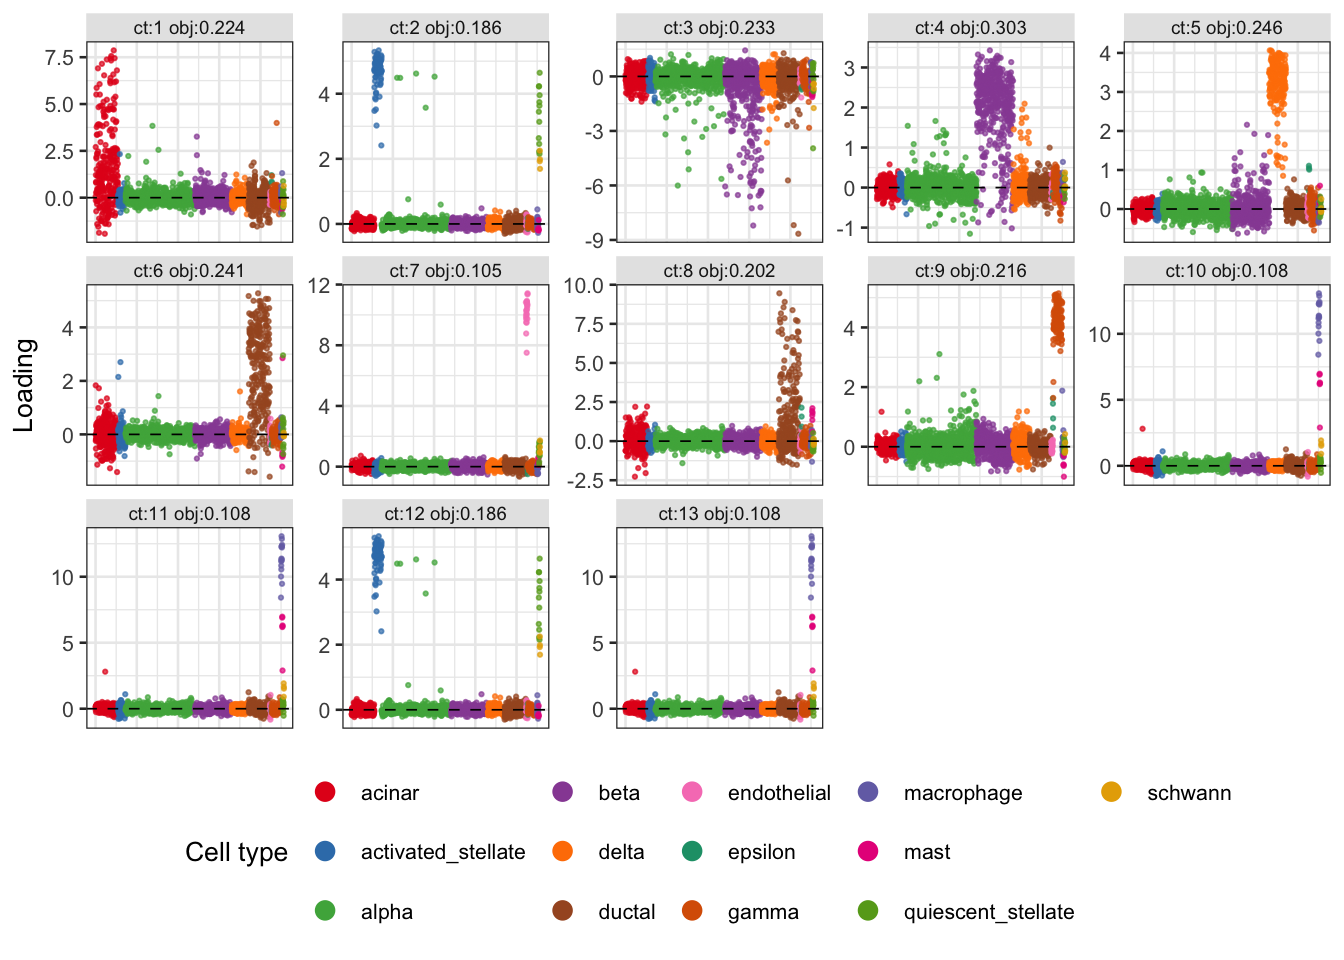
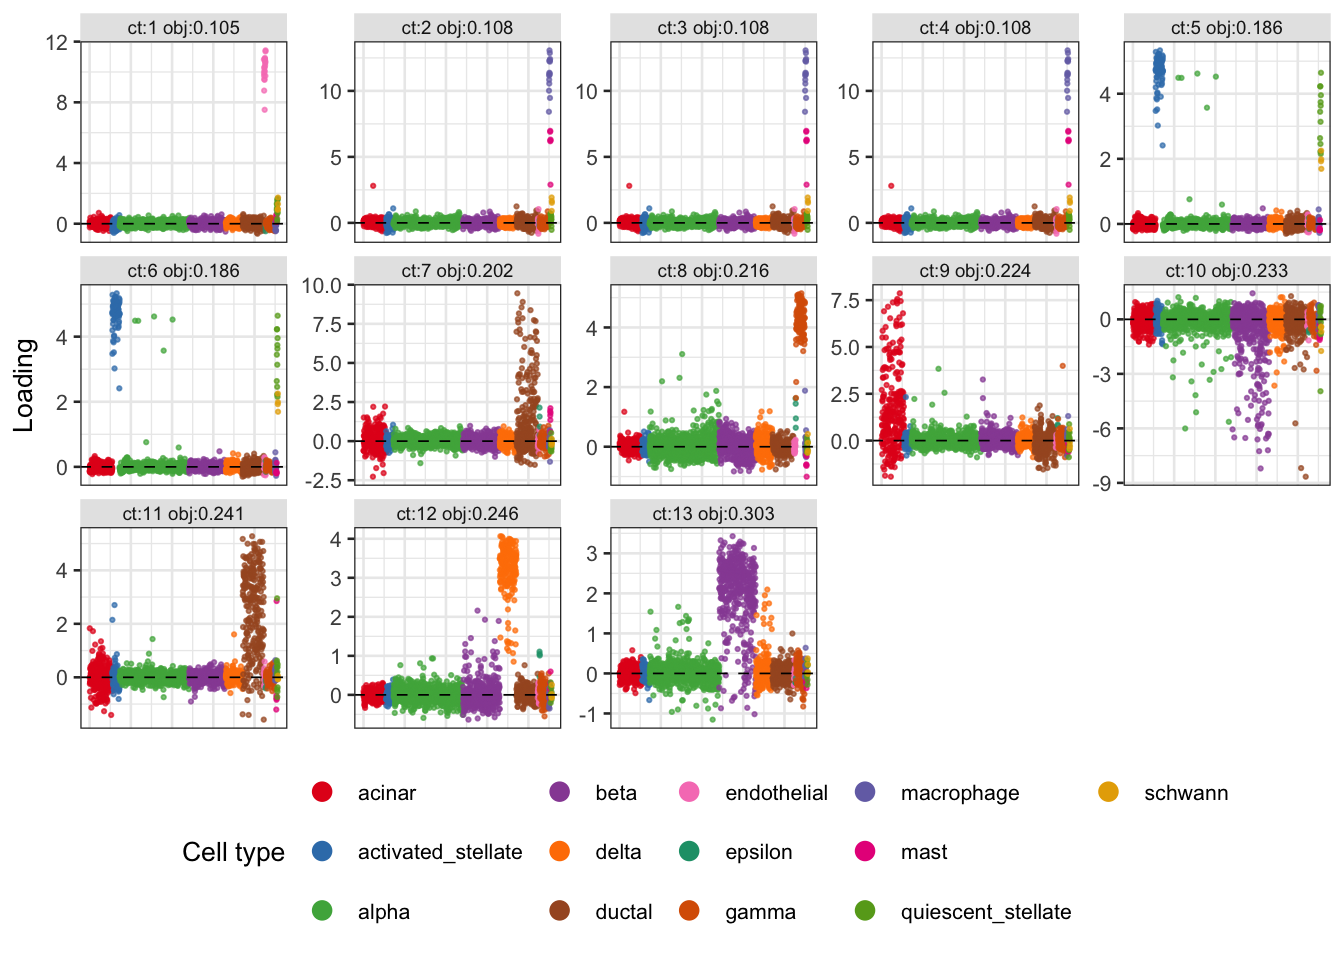
Build site.

diff --git a/docs/pancreas_celseq2_ica.html b/docs/pancreas_celseq2_ica.html
@@ -434,15 +434,15 @@ project makes it easier to run your code on other machines.</p>
 <div class="panel panel-default">
 <div class="panel-heading">
 <p class="panel-title">
-<a data-toggle="collapse" data-parent="#workflowr-checks" href="#strongRepositoryversionstrongahrefhttpsgithubcomstephenslabsinglecelljamboreetree69574bab76f6842d9ccb6cc8d6e3db1330432e52targetblank69574baa">
+<a data-toggle="collapse" data-parent="#workflowr-checks" href="#strongRepositoryversionstrongahrefhttpsgithubcomstephenslabsinglecelljamboreetree1a948b136c65fd3fd26229473fa1a9e304aa0ba1targetblank1a948b1a">
 <span class="glyphicon glyphicon-ok text-success"
 aria-hidden="true"></span> <strong>Repository version:</strong>
-<a href="https://github.com/stephenslab/single-cell-jamboree/tree/69574bab76f6842d9ccb6cc8d6e3db1330432e52" target="_blank">69574ba</a>
+<a href="https://github.com/stephenslab/single-cell-jamboree/tree/1a948b136c65fd3fd26229473fa1a9e304aa0ba1" target="_blank">1a948b1</a>
 </a>
 </p>
 </div>
 <div
[2 lines of base64/hex data omitted]
 class="panel-collapse collapse">
 <div class="panel-body">
 <p>
@@ -452,7 +452,7 @@ reproducibility.
 </p>
 <p>
 The results in this page were generated with repository version
-<a href="https://github.com/stephenslab/single-cell-jamboree/tree/69574bab76f6842d9ccb6cc8d6e3db1330432e52" target="_blank">69574ba</a>.
+<a href="https://github.com/stephenslab/single-cell-jamboree/tree/1a948b136c65fd3fd26229473fa1a9e304aa0ba1" target="_blank">1a948b1</a>.
 See the <em>Past versions</em> tab to see a history of the changes made
 to the R Markdown and HTML files.
 </p>
@@ -473,6 +473,7 @@ Ignored files:
 
 Untracked files:
     Untracked:  analysis/Rplot.pdf
+    Untracked:  analysis/figure/
     Untracked:  analysis/fit_pancreas_celseq2_gbcd.Rout
     Untracked:  analysis/fit_pancreas_celseq2_snmf_k100.R
     Untracked:  analysis/fit_pancreas_celseq2_snmf_k40.R
@@ -528,6 +529,40 @@ Message
 </tr>
 </thead>
 <tbody>
+<tr>
+<td>
+Rmd
+</td>
+<td>
+<a href="https://github.com/stephenslab/single-cell-jamboree/blob/1a948b136c65fd3fd26229473fa1a9e304aa0ba1/analysis/pancreas_celseq2_ica.Rmd" target="_blank">1a948b1</a>
+</td>
+<td>
+Matthew Stephens
+</td>
+<td>
+2026-08-21
+</td>
+<td>
+workflowr::wflow_publish("pancreas_celseq2_ica.Rmd")
+</td>
+</tr>
+<tr>
+<td>
+html
+</td>
+<td>
+<a href="https://rawcdn.githack.com/stephenslab/single-cell-jamboree/0442a3c50bd73bbcbbf3f597fd388bf92aa1049b/docs/pancreas_celseq2_ica.html" target="_blank">0442a3c</a>
+</td>
+<td>
+Matthew Stephens
+</td>
+<td>
+2026-08-21
+</td>
+<td>
+Build site.
+</td>
+</tr>
 <tr>
 <td>
 Rmd
@@ -779,20 +814,20 @@ celltype_palette &lt;- c(
   &quot;#E7298A&quot;, &quot;#66A61E&quot;, &quot;#E6AB02&quot;, &quot;#A6761D&quot;, &quot;#666666&quot;
 )
 
-lhat_ggplot &lt;- function(Lhat.pc, idx, title) {
+lhat_ggplot &lt;- function(Lhat.pc, idx, title, si = sample_info) {
   if (sum(idx) == 0) return(invisible(NULL))
   Lhat.prune &lt;- Lhat.pc$pruned_matrix
   Lhat_sub   &lt;- Lhat.prune[, idx, drop = FALSE]
   obj_sub    &lt;- colMeans(log(cosh(Lhat_sub)))
   o2         &lt;- order(obj_sub)
-  cell_order &lt;- order(sample_info$celltype)
+  cell_order &lt;- order(si$celltype)
   n_cells    &lt;- nrow(Lhat_sub)
   n_comp     &lt;- sum(idx)
 
   comp_labels &lt;- make.unique(paste0(&quot;n:&quot;, Lhat.pc$cluster_sizes[idx], &quot; obj:&quot;, round(obj_sub, 3)))
   df &lt;- data.frame(
     rank      = rep(seq_len(n_cells), n_comp),
-    celltype  = rep(sample_info$celltype[cell_order], n_comp),
+    celltype  = rep(si$celltype[cell_order], n_comp),
     loading   = as.vector(Lhat_sub[cell_order, ]),
     component = factor(rep(comp_labels, each = n_cells), levels = comp_labels[o2])
   )
@@ -810,27 +845,30 @@ lhat_ggplot &lt;- function(Lhat.pc, idx, title) {
     guides(color = guide_legend(override.aes = list(size = 3, alpha = 1)))
 }
 
-plot_Lhat_maxima &lt;- function(Lhat.pc, obj_threshold = 0.42) {
+plot_Lhat_maxima &lt;- function(Lhat.pc, obj_threshold = 0.42, si = sample_info) {
   obj &lt;- colMeans(log(cosh(Lhat.pc$pruned_matrix)))
-  lhat_ggplot(Lhat.pc, obj &gt; obj_threshold, paste0(&quot;Maxima (obj &gt; &quot;, obj_threshold, &quot;)&quot;))
+  lhat_ggplot(Lhat.pc, obj &gt; obj_threshold, paste0(&quot;Maxima (obj &gt; &quot;, obj_threshold, &quot;)&quot;), si)
 }
 
-plot_Lhat_minima &lt;- function(Lhat.pc, obj_threshold = 0.42) {
+plot_Lhat_minima &lt;- function(Lhat.pc, obj_threshold = 0.42, si = sample_info) {
   obj &lt;- colMeans(log(cosh(Lhat.pc$pruned_matrix)))
-  lhat_ggplot(Lhat.pc, obj &lt;= obj_threshold, paste0(&quot;Minima (obj &lt;= &quot;, obj_threshold, &quot;)&quot;))
+  lhat_ggplot(Lhat.pc, obj &lt;= obj_threshold, paste0(&quot;Minima (obj &lt;= &quot;, obj_threshold, &quot;)&quot;), si)
 }
 
 # General version for unlabeled/unordered loading matrices
-plot_loadings_matrix &lt;- function(Lhat, label_prefix = &quot;ct:&quot;) {
+plot_loadings_matrix &lt;- function(Lhat, label_prefix = &quot;ct:&quot;, si = sample_info) {
   obj &lt;- colMeans(log(cosh(Lhat)))
-  cell_order &lt;- order(sample_info$celltype)
+  cell_order &lt;- order(si$celltype)
   n_cells &lt;- nrow(Lhat)
   n_comp &lt;- ncol(Lhat)
 
+  o    &lt;- order(obj)
+  Lhat &lt;- Lhat[, o, drop = FALSE]
+  obj  &lt;- obj[o]
   comp_labels &lt;- make.unique(paste0(label_prefix, seq_len(n_comp), &quot; obj:&quot;, round(obj, 3)))
   df &lt;- data.frame(
     rank      = rep(seq_len(n_cells), n_comp),
-    celltype  = rep(sample_info$celltype[cell_order], n_comp),
+    celltype  = rep(si$celltype[cell_order], n_comp),
     loading   = as.vector(Lhat[cell_order, ]),
     component = factor(rep(comp_labels, each = n_cells), levels = comp_labels)
   )
@@ -847,6 +885,87 @@ plot_loadings_matrix &lt;- function(Lhat, label_prefix = &quot;ct:&quot;) {
           strip.background = element_rect(fill = &quot;grey90&quot;, color = NA),
           legend.position = &quot;bottom&quot;) +
     guides(color = guide_legend(override.aes = list(size = 3, alpha = 1)))
+}
+
+# Polar factor of W: the nearest orthonormal matrix (W^T W = I).
+# Used after each rank-r update to keep columns orthonormal.
+polar &lt;- function(W) {
+  s &lt;- svd(W)
+  s$u %*% t(s$v)
+}
+
+# Rank-r fastICA update (maximise log-cosh, symmetric deflation via polar decomp).
+# U  : (n.comp+1) x n  — whitened data (plus intercept row)
+# W  : (n.comp+1) x r  — weight matrix with orthonormal columns
+fastica_update_rankr &lt;- function(U, W) {
+  P  &lt;- t(U) %*% W           # n x r
+  G  &lt;- tanh(P)              # n x r
+  G2 &lt;- 1 - G^2             # n x r
+  W  &lt;- U %*% G - sweep(W, 2, colSums(G2), &quot;*&quot;)
+  polar(W)
+}
+
+# Rank-r gradient descent update (minimise log-cosh, symmetric deflation via polar decomp).
+gradient_minica_update_rankr &lt;- function(U, W, lr = 0.1) {
+  P    &lt;- t(U) %*% W          # n x r
+  G    &lt;- tanh(P)             # n x r
+  grad &lt;- (U %*% G) / ncol(U)
+  W    &lt;- W - lr * grad
+  polar(W)
+}
+
+# Tilted log-cosh (TLC) update — parallel rank-1 starts (maximise TLC objective).
+# G(z)  = log(cosh(z)) + lambda * z|z|
+# g(z)  = tanh(z) + 2*lambda*|z|
+# g&#39;(z) = 1 - tanh^2(z) + 2*lambda*sign(z)
+fastica_update_tlc &lt;- function(U, W, lambda = 1) {
+  P  &lt;- t(U) %*% W
+  G  &lt;- tanh(P) + 2 * lambda * abs(P)
+  G2 &lt;- 1 - tanh(P)^2 + 2 * lambda * sign(P)
+  W  &lt;- U %*% G - sweep(W, 2, colSums(G2), &quot;*&quot;)
+  sweep(W, 2, sqrt(colSums(W^2)) + 1e-15, &quot;/&quot;)
+}
+
+# Rank-r TLC update with polar orthogonalisation.
+fastica_update_tlc_rankr &lt;- function(U, W, lambda = 1) {
+  P  &lt;- t(U) %*% W
+  G  &lt;- tanh(P) + 2 * lambda * abs(P)
+  G2 &lt;- 1 - tanh(P)^2 + 2 * lambda * sign(P)
+  W  &lt;- U %*% G - sweep(W, 2, colSums(G2), &quot;*&quot;)
+  polar(W)
+}
+
+# TLC objective per column of a loadings matrix L = t(U) %*% W.
+objective_tlc &lt;- function(L, lambda = 1) {
+  colMeans(log(cosh(L)) + lambda * abs(L) * L)
+}
+
+# Log-Phi contrast: G(z) = log(Phi(alpha*z)), designed to be maximised.
+# g(z)  = alpha * phi(alpha*z)/Phi(alpha*z)   (scaled inverse Mills ratio)
+# g&#39;(z) = alpha^2 * (-alpha*z * h - h^2)      h computed in log-scale for stability
+fastica_update_logphi &lt;- function(U, W, alpha = 2) {
+  P  &lt;- t(U) %*% W
+  u  &lt;- alpha * P
+  h  &lt;- exp(dnorm(u, log = TRUE) - pnorm(u, log.p = TRUE))
+  G  &lt;- alpha * h
+  G2 &lt;- alpha^2 * (-u * h - h^2)
+  W  &lt;- U %*% G - sweep(W, 2, colSums(G2), &quot;*&quot;)
+  sweep(W, 2, sqrt(colSums(W^2)) + 1e-15, &quot;/&quot;)
+}
+
+# Rank-r log-Phi update with polar orthogonalisation.
+fastica_update_logphi_rankr &lt;- function(U, W, alpha = 2) {
+  P  &lt;- t(U) %*% W
+  u  &lt;- alpha * P
+  h  &lt;- exp(dnorm(u, log = TRUE) - pnorm(u, log.p = TRUE))
+  G  &lt;- alpha * h
+  G2 &lt;- alpha^2 * (-u * h - h^2)
+  W  &lt;- U %*% G - sweep(W, 2, colSums(G2), &quot;*&quot;)
+  polar(W)
+}
+
+objective_logphi &lt;- function(L, alpha = 2) {
+  colMeans(pnorm(alpha * L, log.p = TRUE))
 }</code></pre>
 </div>
 <div id="eigenvalue-plots" class="section level2">
@@ -1430,10 +1549,7 @@ for (i in seq_len(n_iter))
 Lhat_thin    &lt;- t(U_aug_thin) %*% W
 Lhat_thin.pc &lt;- prune_and_count_cluster(Lhat_thin)
 
-# Plot using thinned sample_info (swap temporarily so plotting functions work)
-sample_info_save &lt;- sample_info
-sample_info      &lt;- sample_info_thin
-plot_Lhat_minima(Lhat_thin.pc)</code></pre>
+plot_Lhat_minima(Lhat_thin.pc, si = sample_info_thin)</code></pre>
 <p><img src="figure/pancreas_celseq2_ica.Rmd/unnamed-chunk-11-1.png" alt="" width="672" style="display: block; margin: auto;" /></p>
 <p>
 <button type="button" class="btn btn-default btn-xs btn-workflowr btn-workflowr-fig" data-toggle="collapse" data-target="#fig-unnamed-chunk-11-1">
@@ -1457,6 +1573,17 @@ Date
 </tr>
 </thead>
 <tbody>
+<tr>
+<td>
+<a href="https://github.com/stephenslab/single-cell-jamboree/blob/0442a3c50bd73bbcbbf3f597fd388bf92aa1049b/docs/figure/pancreas_celseq2_ica.Rmd/unnamed-chunk-11-1.png" target="_blank">0442a3c</a>
+</td>
+<td>
+Matthew Stephens
+</td>
+<td>
+2026-08-21
+</td>
+</tr>
 <tr>
 <td>
 <a href="https://github.com/stephenslab/single-cell-jamboree/blob/f6ab0bc383e264b27d5385657e5e6cabf5391f6d/docs/figure/pancreas_celseq2_ica.Rmd/unnamed-chunk-11-1.png" target="_blank">f6ab0bc</a>
@@ -1483,7 +1610,104 @@ Matthew Stephens
 </table>
 </div>
 </div>
-<pre class="r"><code>sample_info      &lt;- sample_info_save</code></pre>
+</div>
+<div id="rank-r-fastica-r-20" class="section level2">
+<h2>Rank-r fastICA (r = 20)</h2>
+<p>Run a single rank-20 ICA, simultaneously extracting 20 orthogonal
+components via the symmetric deflation approach. I use more iterations
+since the orthogonalization slows down convergence. This method finds
+many qualitatively-similar results to the parallel rank 1 method, but it
+finds a couple of additional factors that seem to correspond to subsets
+of alpha cells that might be interesting to look at further.</p>
+<pre class="r"><code>set.seed(1)
+r &lt;- 20
+n_iter = 500
+W_r &lt;- polar(matrix(rnorm((n.comp + 1) * r), n.comp + 1, r))
+for (i in seq_len(n_iter))
+  W_r &lt;- gradient_minica_update_rankr(U_aug, W_r)
+for (i in seq_len(n_iter))
+  W_r &lt;- fastica_update_rankr(U_aug, W_r)
+
+Lhat_r &lt;- t(U_aug) %*% W_r   # n x r
+plot_loadings_matrix(Lhat_r)</code></pre>
+<p><img src="figure/pancreas_celseq2_ica.Rmd/unnamed-chunk-12-1.png" alt="" width="672" style="display: block; margin: auto;" /></p>
+</div>
+<div id="tilted-log-cosh-1000-random-starts" class="section level2">
+<h2>Tilted log-cosh: 1000 random starts</h2>
+<p>The tilted log-cosh (TLC) objective <span class="math inline">\(G(z)
+= \log\cosh(z) + \lambda z|z|\)</span> is designed to be maximised and
+scores sparse binary sources more highly than standard log-cosh, which
+can fail for very skewed groups. Here we run 1000 random starts
+maximising the TLC objective with <span class="math inline">\(\lambda =
+1\)</span>. At first I thought these looked good, but now I’m less sure:
+is it combining groups together that should not be combined? Eg
+combining delta with mast and macrophage seems potentially (probably?)
+wrong. Note that the group that showed the strongest minimum of log cosh
+now becomes the weakest maximum of this function. This makes me a bit
+uncomfortable.</p>
+<pre class="r"><code>set.seed(1)
+n_iter = 50
+W &lt;- matrix(rnorm(nrow(U_aug) * n_starts), nrow(U_aug), n_starts)
+W &lt;- sweep(W, 2, sqrt(colSums(W^2)), &quot;/&quot;)
+for (i in seq_len(n_iter))
+  W &lt;- fastica_update_tlc(U_aug, W)
+
+Lhat_tlc    &lt;- t(U_aug) %*% W
+Lhat_tlc.pc &lt;- prune_and_count_cluster(Lhat_tlc)
+
+plot_Lhat_maxima(Lhat_tlc.pc, obj_threshold = -Inf)</code></pre>
+<p><img src="figure/pancreas_celseq2_ica.Rmd/unnamed-chunk-13-1.png" alt="" width="672" style="display: block; margin: auto;" /></p>
+</div>
+<div id="tilted-log-cosh-rank-r-r-20" class="section level2">
+<h2>Tilted log-cosh: rank-r (r = 20)</h2>
+<p>Single rank-20 TLC run with symmetric orthogonalisation. These
+results actually look more promising: the combining of groups seems to
+have gone (?) and there are some possibly interesting hints of splits
+that group subsets of alpha cells with other related cells (beta,
+delta). Maybe 13 and 6 suggest two different subtypes of acinar cells.
+However, we have to be careful maybe about the fact that orthogonality
+has been forced here….</p>
+<pre class="r"><code>set.seed(1)
+n_iter = 500
+W_r_tlc &lt;- polar(matrix(rnorm((n.comp + 1) * r), n.comp + 1, r))
+for (i in seq_len(n_iter))
+  W_r_tlc &lt;- fastica_update_tlc_rankr(U_aug, W_r_tlc)
+
+Lhat_r_tlc &lt;- t(U_aug) %*% W_r_tlc
+plot_loadings_matrix(Lhat_r_tlc)</code></pre>
+<p><img src="figure/pancreas_celseq2_ica.Rmd/unnamed-chunk-14-1.png" alt="" width="672" style="display: block; margin: auto;" /></p>
+</div>
+<div id="log-phi-1000-random-starts" class="section level2">
+<h2>Log-Phi: 1000 random starts</h2>
+<p>The log-Phi contrast <span class="math inline">\(G(z) =
+\log\Phi(\alpha z)\)</span> rewards large positive projections and is
+suited to one-sided sparse sources (cells that are “on” for a minority
+of observations). Here <span class="math inline">\(\alpha = 2\)</span>.
+Using U_aug always converged to the intercept so I removed the intercept
+column for this contrast.</p>
+<pre class="r"><code>set.seed(1)
+n_iter = 50
+W &lt;- matrix(rnorm(nrow(U) * n_starts), nrow(U), n_starts)
+W &lt;- sweep(W, 2, sqrt(colSums(W^2)), &quot;/&quot;)
+for (i in seq_len(n_iter))
+  W &lt;- fastica_update_logphi(U, W)
+
+Lhat_lp    &lt;- t(U) %*% W
+Lhat_lp.pc &lt;- prune_and_count_cluster(Lhat_lp)
+plot_Lhat_maxima(Lhat_lp.pc, obj_threshold = -Inf)</code></pre>
+<p><img src="figure/pancreas_celseq2_ica.Rmd/unnamed-chunk-15-1.png" alt="" width="672" style="display: block; margin: auto;" /></p>
+</div>
+<div id="log-phi-rank-r-r-20" class="section level2">
+<h2>Log-Phi: rank-r (r = 20)</h2>
+<pre class="r"><code>set.seed(1)
+n_iter = 500
+W_r_lp &lt;- polar(matrix(rnorm((n.comp) * r), n.comp, r))
+for (i in seq_len(n_iter))
+  W_r_lp &lt;- fastica_update_logphi_rankr(U, W_r_lp)
+
+Lhat_r_lp &lt;- t(U) %*% W_r_lp
+plot_loadings_matrix(Lhat_r_lp)</code></pre>
+<p><img src="figure/pancreas_celseq2_ica.Rmd/unnamed-chunk-16-1.png" alt="" width="672" style="display: block; margin: auto;" /></p>
 <p>This was old code, running it to cluster genes and looking how
 consistent the programs are from the two runs. While there is some
 consistency, there do not seem to be as many consistent programs as with
